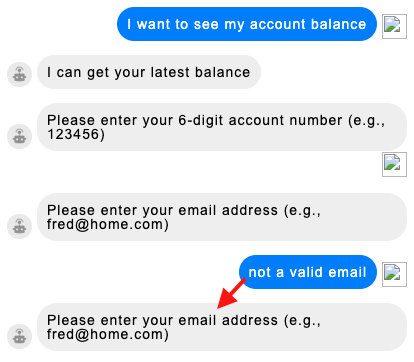
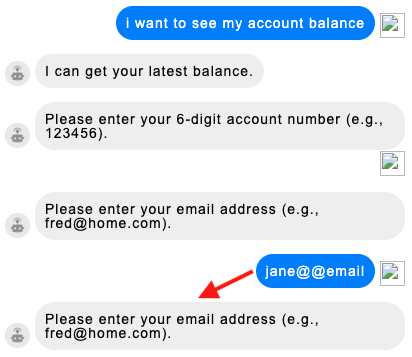
Add new Tips & Tricks section

diff --git a/pages/documents/ConversationalAI/ConversationBuilder/advanced_use_cases.md b/pages/documents/ConversationalAI/ConversationBuilder/advanced_use_cases.md
@@ -27,7 +27,7 @@ To solve this problem, you can create a "catch all other utterances" condition t
 
 <img class="fancyimage" style="width:800px" src="img/ConvoBuilder/keepUserInDialog1.png">
 
-This yields a conversation that looks like this:
+When the user enters anything but a well-formed email address, this yields a conversation that looks like this:
 
 <img class="fancyimage" style="width:350px" src="img/ConvoBuilder/keepUserInDialog2.png">
 
